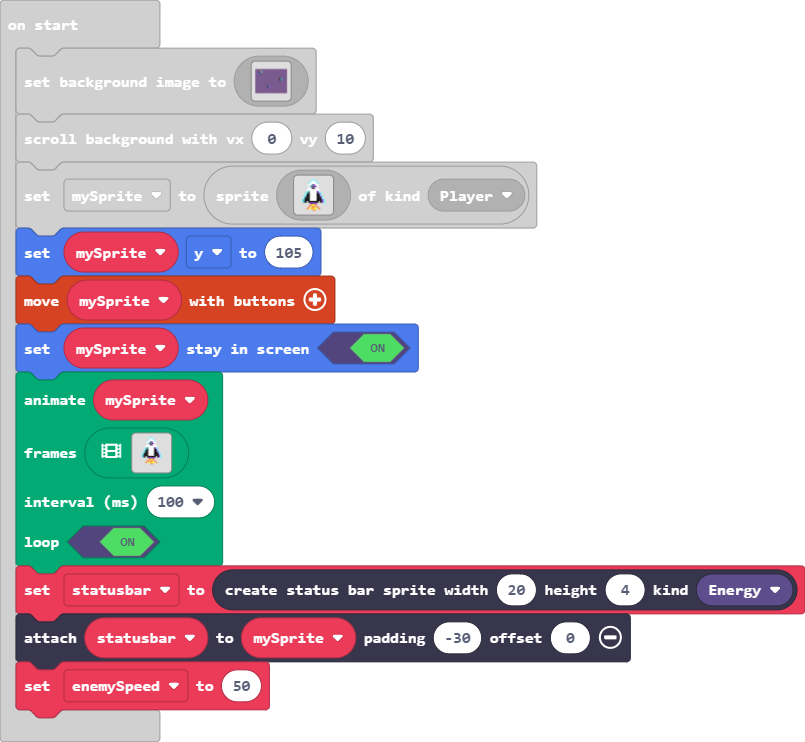
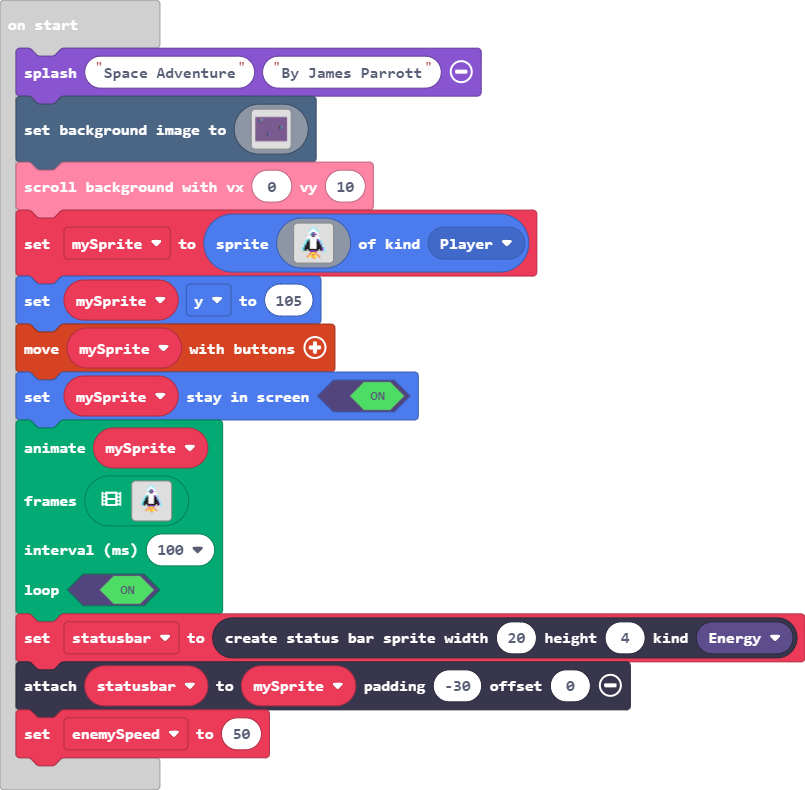
Add title screen

Changed region(s): [[0.0, 0.031, 1.0, 0.9919]]

diff --git a/main.ts b/main.ts
@@ -40,6 +40,7 @@ let darts: Image[] = []
 let enemySpeed = 0
 let statusbar: StatusBarSprite = null
 let mySprite: Sprite = null
+game.splash("Space Adventure", "By James Parrott")
 scene.setBackgroundImage(assets.image`Galaxy`)
 scroller.scrollBackgroundWithSpeed(0, 10)
 mySprite = sprites.create(assets.image`Rocket`, SpriteKind.Player)
